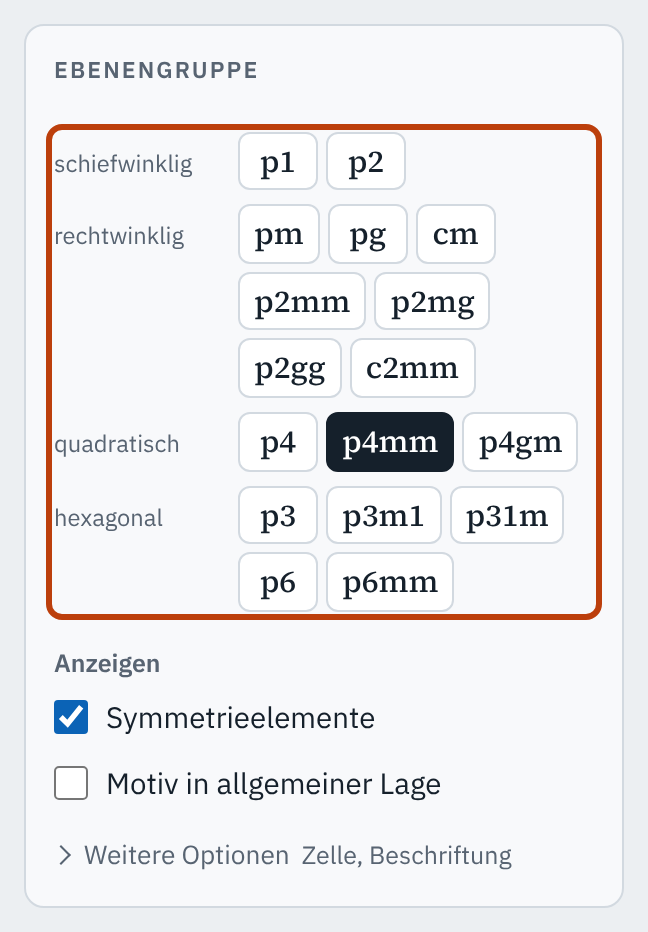
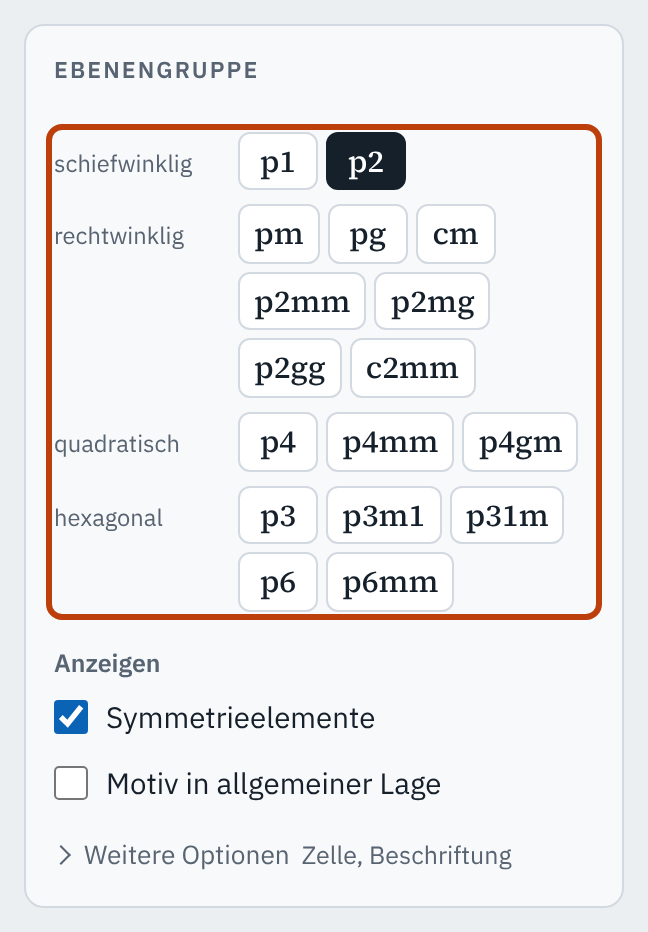
Hilfeseite: Befunde des Reviews
- Bilder nach einer Aktion: neues Feld `bild` (Link-Adresse), geprüft
  von pruefeAblaeufe; Leitfaden und CHANGELOG nennen die Grenze
- Alternativtext über ohneHTML aus ablauf.js (Querstriche, Symbole,
  Zeichen); ↻ wie in der Liste der Experimente mit Text für Screenreader
- experimentAusAdresse(karte, ids, oeffnen): Abschnitt vor dem Start
  öffnen, damit der Fokus auf der Frage landet
- hilfe-bilder.mjs: Fehler je Bild abfangen, altes Bild dann löschen
- pruefeHilfe: zeige muss mit #id beginnen, erzeugte Experimente ohne
  Parameter; Grenzen im JSDoc; fehlerhafter Anker auf der Hilfeseite
- „?“ auf Touch-Geräten 40 px; Vorlage: Modus-Adresse #g=p2, Zustand
  aus der Adresse beim Laden (geprüft)
- CHANGELOG: Hinweise für die Apps ergänzt

Claude-Session: https://claude.ai/code/session_01L8SY94AyZjTUqyXh9fBBca

Changed region(s): [[0.4938, 0.4356, 0.7099, 0.529], [0.4938, 0.1245, 0.6481, 0.2178]]

diff --git a/js/hilfe-seite.js b/js/hilfe-seite.js
@@ -5,7 +5,7 @@
 // Bilder: tools/hilfe-bilder.mjs erzeugt je Schritt mit `zeige` (Selektor des Bedienelements) einen Ausschnitt der
 // App im hellen Modus, das Element markiert, unter hilfe/<Ablauf>-<Nr>.png. pruefeHilfe() ist für die Tests der App.
 
-import { erzeugt } from './ablauf.js';
+import { erzeugt, ohneHTML } from './ablauf.js';
 
 /** @import { Ablauf, Experiment, Schritt } from './ablauf.js' */
 
@@ -26,9 +26,6 @@ import { erzeugt } from './ablauf.js';
 /** Name des Parameters, mit dem die Hilfeseite ein Experiment in der App startet (`index.html?experiment=<id>#…`). */
 export const EXPERIMENT_PARAM = 'experiment';
 
-/** Text ohne Auszeichnung (für Alternativtexte). @param {string} h */
-const ohneTags = (h) => h.replace(/<[^<>]*>/g, '').replace(/\s+/g, ' ').trim();
-
 /** Attributwert maskieren. @param {string} s */
 const attr = (s) => s.replace(/&/g, '&amp;').replace(/"/g, '&quot;').replace(/</g, '&lt;').replace(/>/g, '&gt;');
 
@@ -36,8 +33,10 @@ const attr = (s) => s.replace(/&/g, '&amp;').replace(/"/g, '&quot;').replace(/</
 const modusVon = (d, id) => d.modi.find((m) => m.id === id) ?? d.modi[0];
 
 /**
- * Die Bilder der Anleitungen: je Schritt mit `zeige` eines. Zustand vor dem Schritt = Adresse des letzten Schritts
- * davor, der eine hat, sonst die des Modus.
+ * Die Bilder der Anleitungen: je Schritt mit `zeige` eines. Zustand im Bild: `bild` des Schritts, sonst die Adresse
+ * des letzten Schritts davor, der eine hat (`handlung.hash` oder `bild`), sonst die des Modus. Aktionen der App
+ * (`handlung.aktion`) wirken nicht auf die Bilder; ein Schritt nach einer Aktion braucht deshalb `bild`, wenn sein
+ * Bild deren Wirkung zeigen soll.
  * @param {HilfeDaten} d
  * @returns {HilfeBild[]}
  */
@@ -47,6 +46,7 @@ export function hilfeBilder(d) {
   for (const a of d.ersteSchritte) {
     let adresse = modusVon(d, a.modus)?.hash ?? '';
     a.schritte.forEach((s, i) => {
+      if (s.bild) adresse = s.bild;
       if (s.zeige) bilder.push({ datei: `${a.id}-${i + 1}.png`, adresse, zeige: s.zeige, ablauf: a.id, nr: i + 1 });
       if (s.handlung?.hash) adresse = s.handlung.hash;
     });
@@ -55,7 +55,11 @@ export function hilfeBilder(d) {
 }
 
 /** Erster Schritt eines Experiments (bei einem erzeugten der zum ersten Parameter, als Beispiel). @param {Experiment} e @returns {Schritt | undefined} */
-const ersterSchritt = (e) => (erzeugt(e) ? e.make(e.params()[0])[0] : e.schritte[0]);
+const ersterSchritt = (e) => {
+  if (!erzeugt(e)) return e.schritte[0];
+  const p = e.params();
+  return p.length ? e.make(p[0])[0] : undefined;
+};
 
 /**
  * Inhalt der Hilfeseite als HTML: je Modus ein Kapitel mit den Erste Schritten als Anleitung und den Experimenten als
@@ -70,7 +74,7 @@ export function hilfeHTML(d) {
       const schritte = a.schritte.map((s, i) => {
         const bild = bilder.get(`${a.id}:${i + 1}`);
         const h = s.handlung;
-        const alt = `Ausschnitt der App${h ? `: ${ohneTags(h.text)}` : ''}, das Bedienelement ist markiert`;
+        const alt = `Ausschnitt der App${h ? `: ${ohneHTML(h.text)}` : ''}, das Bedienelement ist markiert`;
         return `<li class="hilfe-schritt">
   <p>${s.frage}</p>
   ${bild ? `<figure class="hilfe-bild"><img src="${attr(ordner + bild.datei)}" alt="${attr(alt)}" loading="lazy"></figure>` : ''}
@@ -87,8 +91,9 @@ ${schritte}
     }).join('\n');
     const liste = d.experimente.filter((e) => (e.modus ?? d.modi[0].id) === m.id).map((e) => {
       const s = ersterSchritt(e);
-            const href = `${app}?${EXPERIMENT_PARAM}=${encodeURIComponent(e.id)}${m.hash}`;
-      return `<li><b>${e.titel}</b>${erzeugt(e) ? ' <span class="hilfe-erzeugt" title="stellt immer neue Aufgaben">↻</span>' : ''}${s ? `<br>${s.frage}` : ''}
+          const href = `${app}?${EXPERIMENT_PARAM}=${encodeURIComponent(e.id)}${m.hash}`;
+      const neu = erzeugt(e) ? ' <span class="hilfe-erzeugt" aria-hidden="true">↻</span><span class="sr"> (immer neue Aufgaben)</span>' : '';
+      return `<li><b>${e.titel}</b>${neu}${s ? `<br>${s.frage}` : ''}
   <br><a class="to-app" href="${attr(href)}">In der App ausprobieren</a></li>`;
     }).join('\n');
     if (!anleitungen && !liste) return '';
@@ -117,7 +122,7 @@ export function hilfeInhalt(d) {
       ...(d.experimente.some((e) => (e.modus ?? d.modi[0].id) === m.id) ? [`<li><a href="#experimente-${attr(m.id)}">Experimente</a></li>`] : []),
     ];
     if (!unter.length) return '';
-    return `<li><a href="#modus-${attr(m.id)}">${m.name}</a>${unter.length ? `<ol>${unter.join('')}</ol>` : ''}</li>`;
+    return `<li><a href="#modus-${attr(m.id)}">${m.name}</a><ol>${unter.join('')}</ol></li>`;
   }).join('')}</ol>`;
 }
 
@@ -134,32 +139,38 @@ export function hilfeSeite(ziel, d, inhalt) {
     const setzen = () => { if (img.naturalWidth) img.style.width = `${img.naturalWidth / 2}px`; };
     if (img.complete) setzen(); else img.addEventListener('load', setzen, { once: true });
   }
-  // Sprung an einen Anker, nachdem der Inhalt steht
-  if (location.hash) document.getElementById(decodeURIComponent(location.hash.slice(1)))?.scrollIntoView();
+  // Sprung an einen Anker, nachdem der Inhalt steht (ein fehlerhafter Anker wird übergangen)
+  let anker = location.hash.slice(1);
+  try { anker = decodeURIComponent(anker); } catch { /* wie geschrieben */ }
+  if (anker) document.getElementById(anker)?.scrollIntoView();
 }
 
 /**
  * In der App: Experiment aus der Adresse starten (`?experiment=<id>`, von der Hilfeseite). Entfernt den Parameter
- * aus der Adresse und gibt die gestartete Kennung zurück (sonst null); die App öffnet dann ihren Abschnitt
- * „Experimente“. `ids`: Kennungen der Experimente der App.
- * @param {{ starte: (id: string) => void }} karte @param {string[]} ids
+ * aus der Adresse und gibt die gestartete Kennung zurück (sonst null). `ids`: Kennungen der Experimente der App;
+ * `oeffnen`: macht die Karte sichtbar (Abschnitt „Experimente“ aufklappen), vor dem Start, damit der Fokus auf der
+ * Frage landet.
+ * @param {{ starte: (id: string) => void }} karte @param {string[]} ids @param {() => void} [oeffnen]
  * @returns {string | null}
  */
-export function experimentAusAdresse(karte, ids) {
+export function experimentAusAdresse(karte, ids, oeffnen) {
   const url = new URL(location.href);
   const id = url.searchParams.get(EXPERIMENT_PARAM);
   if (id === null) return null;
   url.searchParams.delete(EXPERIMENT_PARAM);
   history.replaceState(history.state, '', url.pathname + url.search + url.hash);
   if (!ids.includes(id)) return null;
+  oeffnen?.();
   karte.starte(id);
   return id;
 }
 
 /**
- * Prüft die Daten der Hilfeseite, für die Tests der App: Modi der Abläufe bekannt, Selektoren `#id` im HTML der App
- * vorhanden, zu jedem Bild eine Datei, keine überzähligen Bilder. Rückgabe: Liste der Fehler.
- * html: Inhalt von index.html; dateien: Namen der Dateien im Ordner der Bilder.
+ * Prüft die Daten der Hilfeseite, für die Tests der App: Modi der Abläufe bekannt, Adressen der Modi, jedes `zeige`
+ * beginnt mit `#id` und diese ID steht im HTML der App (der Rest des Selektors und Elemente, die erst das Programm
+ * erzeugt, prüft erst tools/hilfe-bilder.mjs), zu jedem Bild eine Datei, keine überzähligen Bilder, erzeugte
+ * Experimente mit Parametern. Rückgabe: Liste der Fehler. html: Inhalt von index.html; dateien: Namen der Dateien im
+ * Ordner der Bilder.
  * @param {HilfeDaten} d @param {{ html: string, dateien: string[] }} o
  */
 export function pruefeHilfe(d, { html, dateien }) {
@@ -174,9 +185,11 @@ export function pruefeHilfe(d, { html, dateien }) {
   const bilder = hilfeBilder(d);
   for (const b of bilder) {
     const id = b.zeige.match(/^#([\w-]+)/)?.[1];
-    if (id && !ids.has(id)) fehler.push(`${b.ablauf}, Schritt ${b.nr}: Element #${id} fehlt in der App`);
+    if (!id) fehler.push(`${b.ablauf}, Schritt ${b.nr}: zeige muss mit #id beginnen (${b.zeige})`);
+    else if (!ids.has(id)) fehler.push(`${b.ablauf}, Schritt ${b.nr}: Element #${id} fehlt in der App`);
     if (!dateien.includes(b.datei)) fehler.push(`${b.ablauf}, Schritt ${b.nr}: Bild ${b.datei} fehlt (node tools/common/hilfe-bilder.mjs)`);
   }
+  for (const e of d.experimente) if (erzeugt(e) && !e.params().length) fehler.push(`${e.id}: keine Parameter`);
   const erwartet = new Set(bilder.map((b) => b.datei));
   for (const f of dateien) if (f.endsWith('.png') && !erwartet.has(f)) fehler.push(`überzähliges Bild ${f}`);
   return fehler;

diff --git a/js/ablauf.js b/js/ablauf.js
@@ -23,10 +23,12 @@ import { leererFortschritt, fortschrittAus, vermerken, vorrang } from './quiz-co
  *   (Index als Schlüssel) zur id eines Schritts. Die Antwort lässt sich ändern.
  * - Text: nur frage (z. B. ein Ergebnis), dazu beobachtung oder erklaerung.
  * In einem Ablauf mit Verzweigung endet ein Schritt ohne weiter den Ablauf; sonst geht es der Reihe nach weiter.
- * skript: Anker im Skript (ohne #). zeige: CSS-Selektor des Bedienelements, das die Hilfeseite im Bild des Schritts
- * markiert (Erste Schritte, `hilfe-seite.js`); in der App ohne Wirkung.
+ * skript: Anker im Skript (ohne #). Für die Hilfeseite (Erste Schritte, `hilfe-seite.js`; in der App ohne Wirkung):
+ * zeige = CSS-Selektor des Bedienelements, das das Bild des Schritts markiert; bild = Link-Adresse des Zustands im
+ * Bild, wo er nicht aus den Adressen der vorigen Schritte folgt (z. B. nach einer Aktion).
  * @typedef {{ id?: string, frage: string, vermutung?: string[], richtig?: number, handlung?: Handlung,
- *   beobachtung?: string, erklaerung?: string, skript?: string, weiter?: Record<string, string>, zeige?: string }} Schritt
+ *   beobachtung?: string, erklaerung?: string, skript?: string, weiter?: Record<string, string>, zeige?: string,
+ *   bild?: string }} Schritt
  */
 /**
  * Ablauf (Lernexperiment) mit festen Schritten. modus: Modus der App, in dem er angeboten wird. variante: bei
@@ -121,6 +123,7 @@ export function pruefeAblaeufe(ablaeufe, { hashGueltig = () => true, aktionen = 
         if (s.vermutung && !s.beobachtung) f.push(`${w}: Beobachtung fehlt`);
       } else if (!s.vermutung && !s.beobachtung && !s.erklaerung) f.push(`${w}: Text ohne Beobachtung oder Erklärung`);
       if (anker && s.skript !== undefined && !anker.includes(s.skript)) f.push(`${w}: unbekannter Anker ${s.skript}`);
+      if (s.bild !== undefined && (!s.bild.startsWith('#') || !hashGueltig(s.bild))) f.push(`${w}: ungültige Adresse des Bildes ${s.bild}`);
       if (s.weiter) {
         if (s.handlung || !s.vermutung) f.push(`${w}: Verzweigung nur bei Antworten ohne Handlung`);
         for (const k of Object.keys(s.weiter)) if (String(Number(k)) !== k || Number(k) < 0 || Number(k) >= n) f.push(`${w}: Verzweigung für unbekannte Antwort ${k}`);
@@ -244,7 +247,7 @@ const QUERSTRICH = /<span\b[^>]*\bclass\s*=\s*["'](?:[^"']*\s)?ov(?:\s[^"']*)?["
  * („4 quer-Achse“); „2 : 1“ bleibt.
  * @param {string} h
  */
-const ohneHTML = (h) => {
+export const ohneHTML = (h) => {
   let t = h.replace(SYMBOL, ' $1 ').replace(QUERSTRICH, ' $1 quer ');
   for (let alt = ''; alt !== t;) { alt = t; t = t.replace(/<[^<>]*>/g, ''); }
   return t.replace(/[<>]/g, '').replace(/&(?:lt|gt|quot|#39|nbsp|amp);/g, (e) => ZEICHEN[e])

diff --git a/vorlagen/app/js/main.js b/vorlagen/app/js/main.js
@@ -104,7 +104,12 @@ function init() {
   const INTRO = 'muster-intro';
   let gesehen = false;
   try { gesehen = localStorage.getItem(INTRO) === '1'; } catch { /* ohne Speicher weiter */ }
-  const anwenden = (/** @type {string} */ hash) => { const g = new URLSearchParams(hash.slice(1)).get('g'); if (g) gruppe = g; alles(); };
+  // Nur bekannte Gruppen übernehmen (in einer App: die Prüffunktion der Adresse, Leitfaden Abschn. 5.2)
+  const anwenden = (/** @type {string} */ hash) => {
+    const g = new URLSearchParams(hash.slice(1)).get('g');
+    if (g && SYSTEME.some(([, gs]) => gs.includes(g))) gruppe = g;
+    alles();
+  };
   const adresse = () => `#g=${gruppe}`;
   const skriptUrl = (/** @type {string} */ anker) => `skript.html#${anker}`;
   /** @param {boolean} an */
@@ -117,10 +122,12 @@ function init() {
   const einstieg = ablaufKarte($('ablauf'), ERSTE_SCHRITTE, { anwenden, adresse, aktionen, skriptUrl, liste: false, beiAbschluss: introZu });
   const experimente = ablaufKarte($('experimente'), ABLAEUFE, { anwenden, adresse, aktionen, skriptUrl, speicher: 'muster-experimente' });
   einstieg.modus('a'); experimente.modus('a');
+  // Zustand aus der Adresse (in einer App über ihre Prüffunktion, Leitfaden Abschn. 5.2)
+  if (location.hash) anwenden(location.hash);
   if (!gesehen && !location.hash) intro(true);
   $('intro-close').addEventListener('click', introZu);
   // Von der Hilfeseite: „In der App ausprobieren“ startet ein Experiment (index.html?experiment=<id>#…)
-  if (experimentAusAdresse(experimente, ABLAEUFE.map((a) => a.id))) aktionen.experimente();
+  experimentAusAdresse(experimente, ABLAEUFE.map((a) => a.id), aktionen.experimente);
   $('copy-link').addEventListener('click', () => navigator.clipboard?.writeText(location.href));
   // Alle Einträge „muster-…“ im Speicher des Browsers ausser denen des Quiz (Leitfaden Abschn. 5.2)
   $('reset-alles').addEventListener('click', () => alleEinstellungenZuruecksetzen('muster'));

diff --git a/vorlagen/app/js/hilfe-daten.js b/vorlagen/app/js/hilfe-daten.js
@@ -6,11 +6,15 @@ import { ERSTE_SCHRITTE, ABLAEUFE } from './hilfetexte.js';
 
 /** @import { HilfeDaten } from '../lib/common/js/hilfe-seite.js' */
 
-/** Modus: Kennung wie in hilfetexte.js, Name wie auf dem Tab, Link-Adresse, die ihn wählt. @type {HilfeDaten} */
+/**
+ * Modi: Kennung wie in hilfetexte.js, Name wie auf dem Tab, Link-Adresse, die ihn wählt (in einer App mit Modus in der
+ * Adresse, z. B. `#m=b`). Die Vorlage führt den Modus nicht in der Adresse; ihr Modus B hat keine Erste Schritte und
+ * fehlt hier deshalb. Die Adresse zeigt die App vor dem ersten Schritt (hier mit p2, der Schritt wählt p4mm).
+ * @type {HilfeDaten}
+ */
 export const HILFE = {
   modi: [
-    { id: 'a', name: 'Modus A', hash: '#g=p4mm' },
-    { id: 'b', name: 'Modus B', hash: '#g=p4mm' },
+    { id: 'a', name: 'Modus A', hash: '#g=p2' },
   ],
   ersteSchritte: ERSTE_SCHRITTE,
   experimente: ABLAEUFE,

diff --git a/css/app.css b/css/app.css
@@ -135,7 +135,7 @@ select { width: 100%; padding: 8px 10px; border: 1px solid var(--field); border-
 /* „?“ als Link zur Hilfeseite (Leitfaden Abschn. 5.3) */
 a.helpbtn { display: inline-grid; place-items: center; text-decoration: none; }
 @media (pointer: coarse) {
-  .helpbtn { width: 36px; height: 36px; }
+  .helpbtn { width: 40px; height: 40px; }
 }
 .intro { border-color: color-mix(in srgb, var(--accent) 45%, var(--line)); }
 .intro-head { display: flex; align-items: center; justify-content: space-between; margin-bottom: 6px; }

diff --git a/css/hilfe.css b/css/hilfe.css
@@ -19,8 +19,6 @@ article figure.hilfe-bild { margin: 8px 0 10px; padding: 0; border: 0; backgroun
 .hilfe-liste > li:last-child { border-bottom: 1px solid var(--line); }
 .hilfe-erzeugt { color: var(--muted); }
 
-a.to-app { font-weight: 600; color: var(--accent); }
-
 @media print {
   .hilfe-schritt, .hilfe-liste > li { break-inside: avoid; }
 }

diff --git a/LEITFADEN.md b/LEITFADEN.md
@@ -65,7 +65,7 @@ Die App ist eine **Werkbank**: links die Bedienung, rechts die Darstellungen, da
 - **Experimente (Lernexperimente):** eigener einklappbarer Abschnitt „Experimente“ in der Seitenleiste, jederzeit erreichbar, je Modus einige. Je Schritt: Frage, Vermutung (2–3 Antworten, nach der Beobachtung ist die zutreffende markiert, ohne Punkte; die Handlung ist erst nach einer Vermutung frei), Handlung per Knopf (Zustand über die Link-Adresse; nur Bedienhandlungen, die nicht in der Adresse stehen, als Aktion der App), Beobachtung, kurze Erklärung mit Link ins Skript; danach „Vorher/Nachher“ zum Vergleich. Die App bleibt dabei frei bedienbar. Der Stand wird wie im Quiz gespeichert (`speicher: '<präfix>-experimente'`): je Experiment Durchgänge und ob zuletzt alle Vermutungen bei der Auflösung zutrafen (ohne Auflösung nur durchgespielt); die Liste zeigt ✓ (zuletzt richtig) oder ○ (durchgespielt), eine Übersicht mit Legende und „Stand löschen“. „Alle Einstellungen zurücksetzen“ lässt ihn wie das Quiz stehen (Entscheidung Thomas, 7.11.2026, #91). **Erzeugte Experimente** (#92, wie die Generatoren im Quiz): statt fester `schritte` liefern `params()` die Parameter und `make(p)` die Schritte; die Liste markiert sie mit ↻, am Ende steht „Neue Aufgabe“. Die Wahl folgt dem Vorrang des Quiz (nie gespielt, dann zuletzt falsch, dann die übrigen; nie zweimal dieselbe hintereinander), der Stand steht unter `<id>:<parameter>`, die Liste zeigt je erzeugtem Experiment einen Eintrag mit dem Stand des zuletzt gespielten Parameters. Je Thema zuerst ein handgeschriebenes Experiment, danach erzeugte Varianten; ein Test der App prüft jede Variante mit `pruefeAblaeufe` und die Aussagen gegen die Daten der App.
 - **Mechanik** für beide in `ablauf.js` (Erste Schritte mit `liste: false`), die Texte sind Daten der App (`hilfetexte.js`); ein Test prüft sie mit `pruefeAblaeufe` gegen die Prüffunktion der Adresse. Erste Schritte und Experimente stehen auch auf der Hilfeseite (unten). Dieselbe Mechanik dient geführten Abläufen mit Verzweigung (Bestimmung der Ebenengruppe). Entscheidungen Thomas, 7.11.2026 (#87).
 - **Tooltips** am Laptop (Maus verzögert, Tastaturfokus), **ⓘ-Erklärungen** je Abschnitt auf Touch-Geräten. Mechanik in `help.js`, Texte in der App (`hilfetexte.js`). Kurz, Begriffe wie im Skript.
-- **Hilfeseite** `hilfe.html` neben Skript und Quiz, über „?“ in der Kopfzeile (ein Link, `<a class="helpbtn" id="help-open" href="hilfe.html">`); Aufbau und Aussehen wie das Skript (hell und dunkel, `css/skript.css` und danach `css/hilfe.css`). Sie zeigt, was man mit der App machen kann und wie: wenige Anleitungen (höchstens etwa acht), jede eine konkrete Aufgabe Schritt für Schritt mit Bildern der Bedienung und einem Knopf, der die Aufgabe in der App öffnet (Link-Adresse). Zuerst sind das die **Erste Schritte aller Modi**, je Modus ein Kapitel; weitere Anleitungen kommen erst dazu, wenn sie fehlen. Danach je Modus die **Experimente als Liste**: Titel und erste Frage (bei einem erzeugten die zum ersten Parameter, mit ↻), dazu „In der App ausprobieren“, das die App mit `?experiment=<id>` öffnet und das Experiment startet; die Auflösung steht nur in der App. **Bilder:** je Schritt ein Ausschnitt der App um das Bedienelement (Karte, Tafel oder Kopfzeile), das Element umrahmt; welches, sagt der Schritt mit `zeige` (CSS-Selektor). `tools/hilfe-bilder.mjs` erzeugt sie mit Playwright im hellen Modus, im Zustand vor dem Schritt; `pruefeHilfe` im Test der App prüft, dass Bilder und abgebildete Bedienelemente da sind. Mechanik in `js/hilfe-seite.js`, Daten der App in `js/hilfe-daten.js` (Modi mit Namen und Adresse, Erste Schritte, Experimente; Muster in der Vorlage). Die Hilfeseite erklärt die Bedienung, nicht die Fachinhalte; umgekehrt ist das Skript keine Bedienungsanleitung. Hilfe nach typischen Fragen ist offen (#110). Entscheidungen Thomas, 4. und 8.11.2026 (#24).
+- **Hilfeseite** `hilfe.html` neben Skript und Quiz, über „?“ in der Kopfzeile (ein Link, `<a class="helpbtn" id="help-open" href="hilfe.html">`); Aufbau und Aussehen wie das Skript (hell und dunkel, `css/skript.css` und danach `css/hilfe.css`). Sie zeigt, was man mit der App machen kann und wie: wenige Anleitungen (höchstens etwa acht), jede eine konkrete Aufgabe Schritt für Schritt mit Bildern der Bedienung und einem Knopf, der die Aufgabe in der App öffnet (Link-Adresse). Zuerst sind das die **Erste Schritte aller Modi**, je Modus ein Kapitel; weitere Anleitungen kommen erst dazu, wenn sie fehlen. Danach je Modus die **Experimente als Liste**: Titel und erste Frage (bei einem erzeugten die zum ersten Parameter, mit ↻), dazu „In der App ausprobieren“, das die App mit `?experiment=<id>` öffnet und das Experiment startet; die Auflösung steht nur in der App. **Bilder:** je Schritt ein Ausschnitt der App um das Bedienelement (Karte, Tafel oder Kopfzeile), das Element umrahmt; welches, sagt der Schritt mit `zeige` (CSS-Selektor, beginnt mit `#id`). `tools/hilfe-bilder.mjs` erzeugt sie mit Playwright im hellen Modus, im Zustand der letzten Link-Adresse davor; Aktionen der App wirken nicht auf die Bilder, ein Schritt danach gibt seinen Zustand deshalb mit `bild` (Link-Adresse) an. Schritte mit Link-Adresse bekommen „In der App zeigen“, solche mit Aktion nicht; wo es geht, Schritte deshalb mit Link-Adresse schreiben. `pruefeHilfe` im Test der App prüft, dass die Bilder da sind und die ID jedes abgebildeten Bedienelements im HTML der App steht; ob der ganze Selektor trifft, zeigt erst das Werkzeug. Mechanik in `js/hilfe-seite.js`, Daten der App in `js/hilfe-daten.js` (Modi mit Namen und Adresse, Erste Schritte, Experimente; Muster in der Vorlage). Die Hilfeseite erklärt die Bedienung, nicht die Fachinhalte; umgekehrt ist das Skript keine Bedienungsanleitung. Hilfe nach typischen Fragen ist offen (#110). Entscheidungen Thomas, 4. und 8.11.2026 (#24).
 
 ### 5.4 Barrierefreiheit
 

diff --git a/CHANGELOG.md b/CHANGELOG.md
@@ -8,11 +8,11 @@ Das Format folgt [Keep a Changelog](https://keepachangelog.com/de/1.1.0/), die V
 
 ### Neu
 
-- **Hilfeseite** (#24, Leitfaden 5.3): `js/hilfe-seite.js` baut aus den Daten der App (`js/hilfe-daten.js`: Modi, Erste Schritte, Experimente) die Seite `hilfe.html`: je Modus die Erste Schritte als Anleitung mit Bildern der Bedienung und „In der App zeigen“, danach die Experimente als Liste mit „In der App ausprobieren“ (`?experiment=<id>`; in der App startet `experimentAusAdresse` das Experiment). Stile in `css/hilfe.css` (nach `skript.css`). `tools/hilfe-bilder.mjs` erzeugt die Bilder (Ausschnitt um das Bedienelement aus `zeige`, umrahmt, hell); `pruefeHilfe` prüft im Test der App Bilder und Bedienelemente. Neues Feld `zeige` im Schritt (`ablauf.js`). Vorlage mit `hilfe.html`, `js/hilfe.js`, `js/hilfe-daten.js`, Bildern unter `hilfe/`. Für die Apps: Seite, Daten und Bilder nach der Vorlage anlegen, `zeige` in den Erste Schritten ergänzen, „?“ als Link auf `hilfe.html` (statt Erste Schritte), `experimentAusAdresse` aufrufen, `sw.js` (Seite in `PAGES`, Dateien und Bilder in `FILES`), `deploy.yml` (`hilfe.html`, `hilfe`) und den Test aus `tests/common.test.mjs` der Vorlage übernehmen.
+- **Hilfeseite** (#24, Leitfaden 5.3): `js/hilfe-seite.js` baut aus den Daten der App (`js/hilfe-daten.js`: Modi, Erste Schritte, Experimente) die Seite `hilfe.html`: je Modus die Erste Schritte als Anleitung mit Bildern der Bedienung und „In der App zeigen“, danach die Experimente als Liste mit „In der App ausprobieren“ (`?experiment=<id>`; in der App startet `experimentAusAdresse` das Experiment). Stile in `css/hilfe.css` (nach `skript.css`). `tools/hilfe-bilder.mjs` erzeugt die Bilder (Ausschnitt um das Bedienelement aus `zeige`, umrahmt, hell); `pruefeHilfe` prüft im Test der App Bilder und Bedienelemente. Neue Felder `zeige` (Bedienelement im Bild) und `bild` (Link-Adresse des Bildes, nach einer Aktion) im Schritt (`ablauf.js`, geprüft von `pruefeAblaeufe`); `ohneHTML` aus `ablauf.js` exportiert (Alternativtexte). Vorlage mit `hilfe.html`, `js/hilfe.js`, `js/hilfe-daten.js`, Bildern unter `hilfe/`. Für die Apps: Seite, Daten und Bilder nach der Vorlage anlegen; `zeige` in den Erste Schritten ergänzen, nach einer Aktion auch `bild` (oder die Handlung als Link-Adresse schreiben, dann gibt es auch „In der App zeigen“); „?“ als Link auf `hilfe.html` statt Knopf, dabei Klick-Handler und `aria-expanded` von `help-open` entfernen und dessen Tooltip anpassen; `experimentAusAdresse(karte, ids, oeffnen)` aufrufen (öffnet den Abschnitt „Experimente“ vor dem Start); `sw.js` (Seite in `PAGES`, Dateien und Bilder in `FILES`), `deploy.yml` (`hilfe.html`, `hilfe`), `tests/release.test.mjs` (`hilfe.html` und Ordner `hilfe/` in der Offline-Liste) und den Test aus `tests/common.test.mjs` der Vorlage übernehmen.
 
 ### Geändert
 
-- **„?“ führt zur Hilfeseite** (Leitfaden 5.1, 5.3; Entscheidung Thomas, 4.11.2026): Die Erste Schritte öffnet es nicht mehr; sie erscheinen beim ersten Aufruf eines Modus und nach „Alle Einstellungen zurücksetzen“. `a.helpbtn` in `css/app.css` für den Link. Für die Apps: siehe oben.
+- **„?“ führt zur Hilfeseite** (Leitfaden 5.1, 5.3; Entscheidung Thomas, 4.11.2026): Die Erste Schritte öffnet es nicht mehr; sie erscheinen beim ersten Aufruf eines Modus und nach „Alle Einstellungen zurücksetzen“. `a.helpbtn` in `css/app.css` für den Link; „?“ auf Touch-Geräten 40 px statt 36 px (Leitfaden 5.2). Für die Apps: siehe oben.
 
 ## [0.14.0] - 2026-11-08
 
